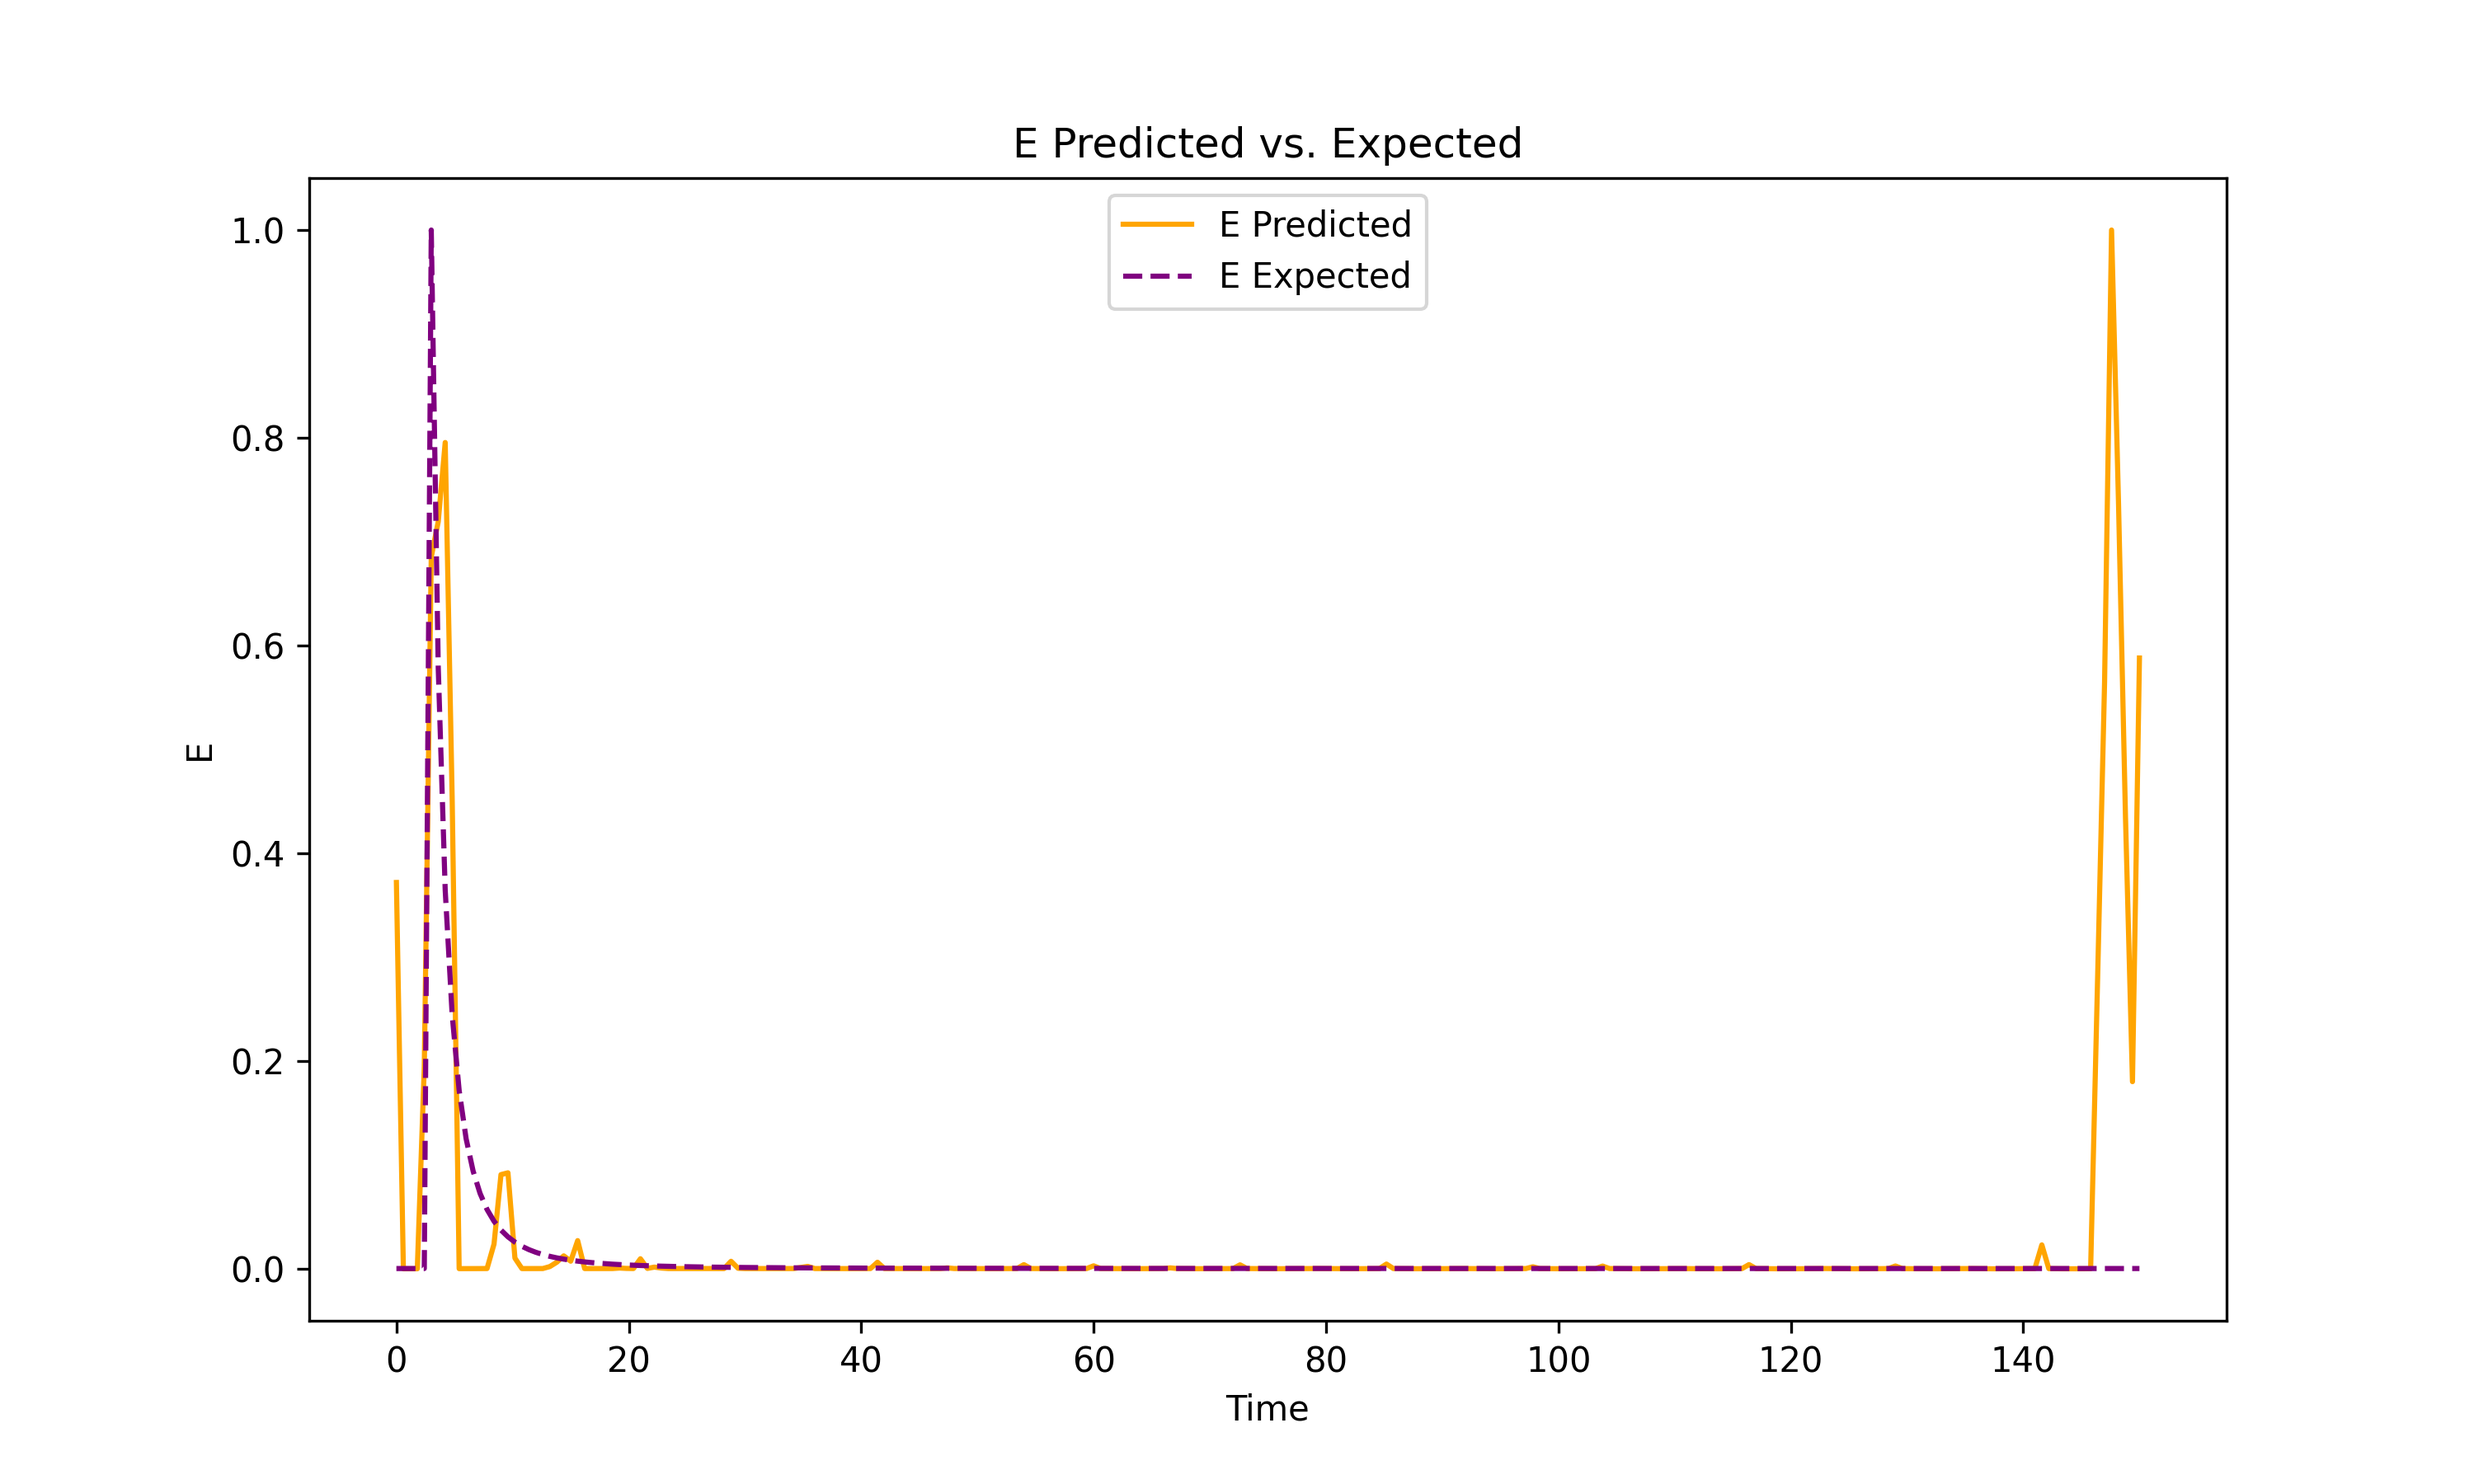
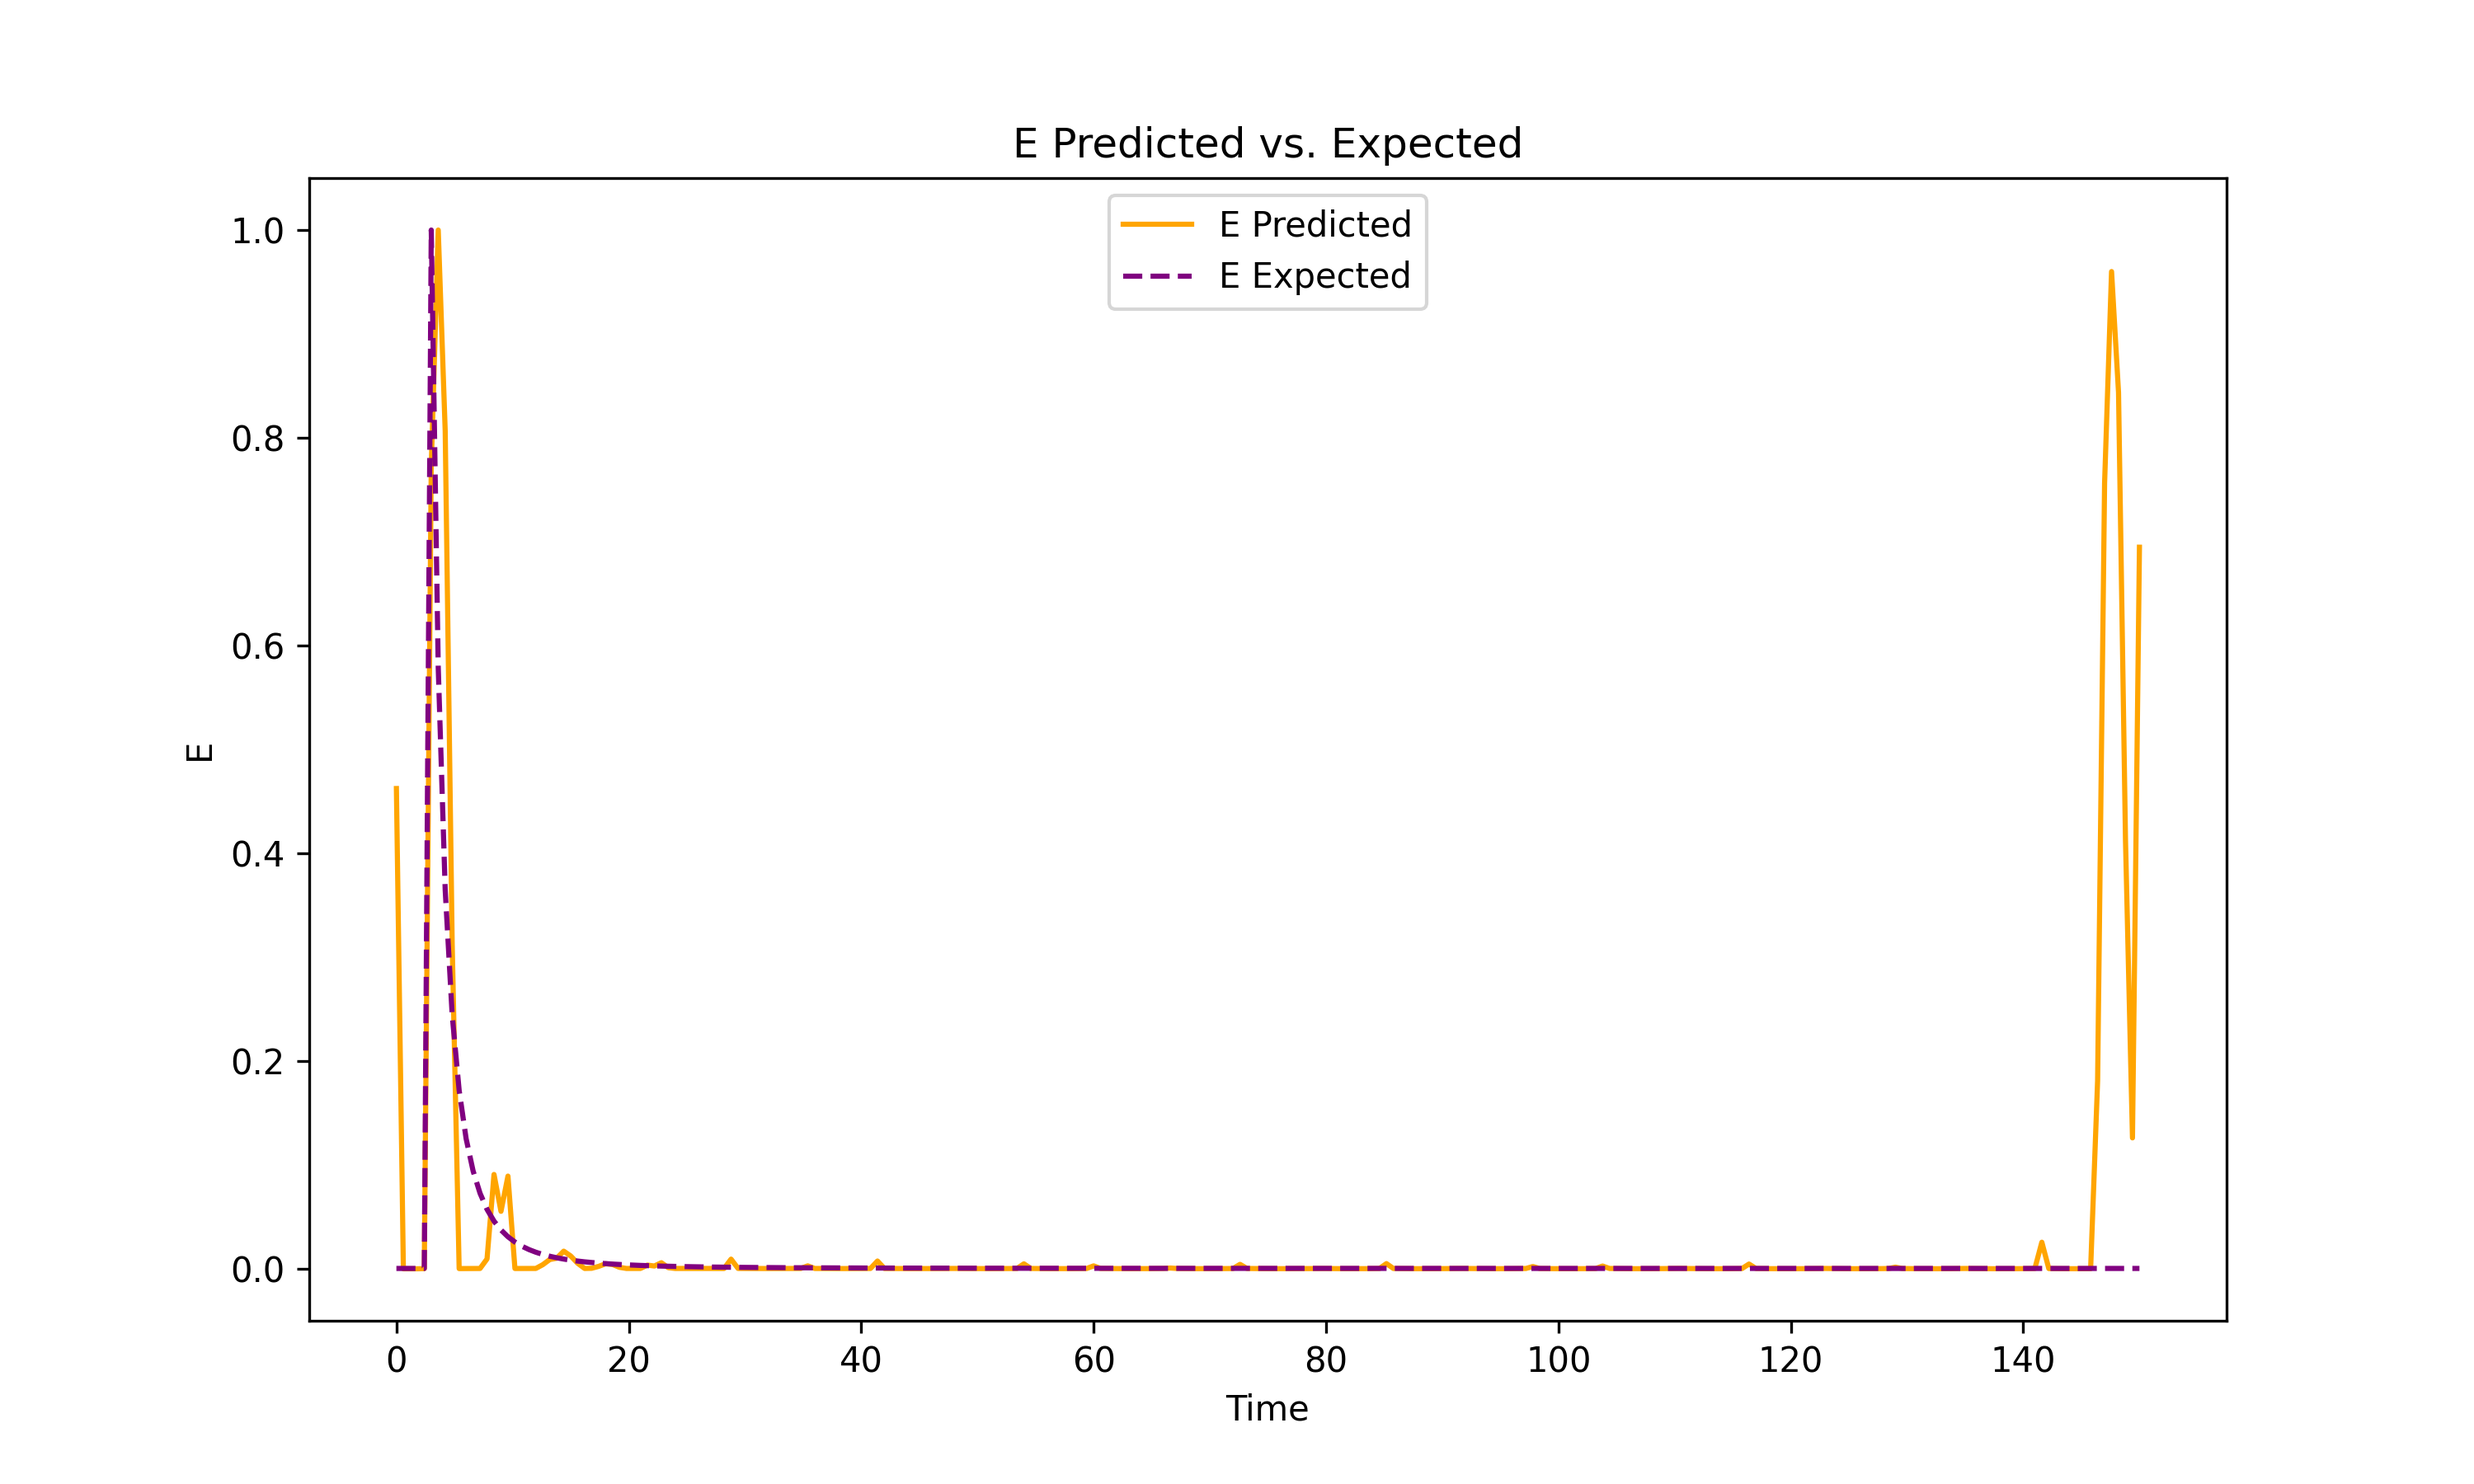
2nd layer

diff --git a/Experiments/Preliminary/2_nd_Layer_exp/0001/H_085/Convolution_script_exp_085.py b/Experiments/Preliminary/2_nd_Layer_exp/0001/H_085/Convolution_script_exp_085.py
@@ -2,14 +2,16 @@ import matplotlib.pyplot as plt
 import numpy.typing as npt
 import sys
 import os
-module_path = os.path.expanduser("lib")
-sys.path.append(module_path)
+#module_path = os.path.expanduser("lib")
+#sys.path.append(module_path)
 import torch
 from torch.utils.data import TensorDataset, DataLoader
 import lightning.pytorch as pl
 import numpy as np
 import wandb
-module_path = os.path.expanduser("~/Documents/GitHub/nRTD/lib")
+#module_path = os.path.expanduser("~/Documents/GitHub/nRTD/lib")
+#sys.path.append(module_path)
+module_path = r"D:\Tuana\nRTD\lib"
 sys.path.append(module_path)
 from nRTD.rtd_fitting_3 import RTDModule
 from nRTD.rtd_net_4 import RTDNet
@@ -120,8 +122,8 @@ t_conv_list = []
 for i, file_num in enumerate(file_numbers):
     # t_conv_path = f"/Users/tuanaoyuncu/Documents/GitHub/nRTD/Data/0001/C_001/H_135_C1/S_010_C1/TOA_MGA_20231020_010_{file_num:06d}_t_processed_2nlayer_200.npy"
     # c_out_path = f"/Users/tuanaoyuncu/Documents/GitHub/nRTD/Data/0001/C_001/H_135_C1/S_010_C1/TOA_MGA_20231020_010_{file_num:06d}_x_processed_2nlayer_200.npy"
-    t_conv_path= r"D:\Tuana\nRTD\Experiments\Data\0001\C_001\H_085_C1\S_009_C1\TOA_MGA_20231020_009_{file_num:06d}_t_processed_2nlayer_200_disc.npy"
-    c_out_path =r"D:\Tuana\nRTD\Experiments\Data\0001\C_001\H_085_C1\S_009_C1\TOA_MGA_20231020_009_{file_num:06d}_x_processed_2nlayer_200_disc.npy"
+    t_conv_path= rf"D:\Tuana\nRTD\Data\0001\C_001\H_085_C1\S_009_C1\TOA_MGA_20231020_009_{file_num:06d}_t_processed_2nlayer_200_disc.npy"
+    c_out_path =rf"D:\Tuana\nRTD\Data\0001\C_001\H_085_C1\S_009_C1\TOA_MGA_20231020_009_{file_num:06d}_x_processed_2nlayer_200_disc.npy"
     
     print(f"Processing files: {t_conv_path}, {c_out_path}")
 
@@ -189,7 +191,7 @@ wandb_logger = pl_loggers.WandbLogger(
 
 trainer = pl.Trainer(
     accelerator="auto",
-    max_epochs=2,
+    max_epochs=10000,
     logger=wandb_logger, deterministic=True
 )
 trainer.fit(model, dl)
@@ -241,9 +243,9 @@ print("c_in",c_out.shape)
 for i, file_num in enumerate(file_numbers):
     # t_conv_path_2 = f"/Users/tuanaoyuncu/Documents/GitHub/nRTD/Data/0001/C_002/H_135_C2/S_013_C2/TOA_MGA_20231020_013_{file_num:06d}_t_processed.npy"
     # c_out_path_2 = f"/Users/tuanaoyuncu/Documents/GitHub/nRTD/Data/0001/C_002/H_135_C2/S_013_C2/TOA_MGA_20231020_013_{file_num:06d}_x_processed.npy"
-    t_conv_path_2= r"D:\Tuana\nRTD\Experiments\Data\0001\C_002\H_085_C2\S_012_C2\TOA_MGA_20231020_012_{file_num:06d}_t_processed_500.npy"
-    c_out_path_2 =r"D:\Tuana\nRTD\Experiments\Data\0001\C_002\H_085_C2\S_012_C2\TOA_MGA_20231020_012_{file_num:06d}_x_processed_500.npy"
-    
+    t_conv_path_2= rf"D:\Tuana\nRTD\Data\0001\C_002\H_085_C2\S_012_C2\TOA_MGA_20231020_012_{file_num:06d}_t_processed_500.npy"
+    c_out_path_2 =rf"D:\Tuana\nRTD\Data\0001\C_002\H_085_C2\S_012_C2\TOA_MGA_20231020_012_{file_num:06d}_x_processed_500.npy"
+
     print(f"Processing files: {t_conv_path_2}, {c_out_path_2}")
 
     t_conv_2 = (
@@ -277,7 +279,7 @@ dl_2 = DataLoader(ds_2, batch_size=1, shuffle=True)
 
 trainer = pl.Trainer(
     accelerator="auto",
-    max_epochs=2,
+    max_epochs=10000,
     logger=wandb_logger,
     deterministic=True,
 )
@@ -329,102 +331,60 @@ plt.savefig(os.path.join(save_dir,f"Figure_C_002_H_135_C2{current_date}.png"), d
 plt.show()
 plt.show()
 
-# import ICIW_Plots.colors as ICIWcolors
-# from ICIW_Plots.figures import Elsevier_Sizes
-# import datetime
-# import ICIW_Plots.colors as ICIWcolors
-# from ICIW_Plots.figures import Elsevier_Sizes, ACS_Sizes
-# from ICIW_Plots import make_square_ax, cm2inch
-# from ICIW_Plots import make_rect_ax
-# plt.style.use("ICIWstyle")
-# fig = plt.figure(figsize=(Elsevier_Sizes.single_column["in"], 12 * cm2inch))
-# ax = make_rect_ax(
-#     fig,
-#     ax_width=7.3 * cm2inch,
-#     ax_height=5 * cm2inch,
-#     # left_h=0.2,  # These arguments control the spacing of the axis
-#     # bottom_v=0.2, # not supplying them wil place the axes in the middle of the figure
-#     xlabel=r"$t$ / $s$",
-#     ylabel=r"$E$ / $1$"
-# )
-# ax.plot(t_2_in.squeeze().numpy(), c_2_in.squeeze().numpy(), )
-# ax.plot(t_1_in_reshaped, c_1_in_reshaped, label=r"$x_{0(t)}$",color=ICIWcolors.CERULEAN)
-# ax.plot(t_conv_reshaped, c_conv_reshaped, label="$\hat{x}_{1(t)}$",color="purple",linestyle="--")
-# ax.plot(t_conv_reshaped, c_out_l_reshaped, label=r"$x_{1(t)}$",color=ICIWcolors.DRAB)
-# ax.plot(t_out_l_a.squeeze().numpy(), c_conv_2.detach().squeeze().numpy(), label="$\hat{x}_{2(t)}$", color="black", linestyle="--")
-# ax.plot(t_out_l_a.squeeze().numpy(), c_out_l_a.squeeze().numpy(), label=r"$x_{2(t)}$", color=ICIWcolors.FLAME)
-# ax1.set_xlim((0, 30))
-# ax1.set_ylim((-0.1, 1.1))
-# current_date = datetime.datetime.now().strftime("%Y%m%d")
-# #plt.savefig(f"2nd_Layer_Ch_and_Adl_{current_date}.png", dpi=300)
-# plt.show()
+plt.style.use("ICIWstyle")
+fig = plt.figure(figsize=(Elsevier_Sizes.single_column["in"], 12 * cm2inch))
+ax = make_rect_ax(
+    fig,
+    ax_width=7.3 * cm2inch,
+    ax_height=5 * cm2inch,
+    # left_h=0.2,  # These arguments control the spacing of the axis
+    # bottom_v=0.2, # not supplying them wil place the axes in the middle of the figure
+    xlabel=r"$t$ / $s$",
+    ylabel=r"$E$ / $1$"
+)
 
-# #### General Plotting
-# E_Adler_normalized = E_Adler / np.max(E_Adler)
-# E_learned_1 = model.net.E[0] if isinstance(model.net.E[0], np.ndarray) else model.net.E[0].numpy()
-# E_learned_2 = model_2.net.E[0] if isinstance(model_2.net.E[0], np.ndarray) else model_2.net.E[0].numpy()
+ax.plot(t_input, c_in[0, 0, :].numpy(), label=r"$x_{0(t)}$",color=ICIWcolors.CERULEAN)
+ax.plot(t_conv[j, i, :].numpy(),
+        c_out[j, i, :].numpy(), label=r"$x_{1(t)}$",color=ICIWcolors.DRAB)
+ax.plot(t_conv[0, 0, :].numpy(),
+    c_conv[0, 0, :].detach().numpy(), label="$\hat{x}_{1(t)}$",color="purple",linestyle="--")
+ax.plot( t_conv[0, 0, :].numpy(),
+    c_conv[0, 0, :].detach().numpy(), label=r"$x_{2(t)}$", color=ICIWcolors.FLAME)
+ax.plot(t_conv_2[0, i, :].numpy(),
+        c_out_2[0, i, :].numpy(), label="$\hat{x}_{2(t)}$", color="black", linestyle="--")
+
+ax.set_xlim((0, 30))
+ax.set_ylim((-0.1, 1.1))
+plt.legend()
+current_date = datetime.datetime.now().strftime("%Y%m%d")
+plt.savefig(os.path.join(save_dir, f"2nd_Layer_185_{current_date}.png"), dpi=300)
+plt.show()
+
+
+E_learned_1 = model.net.E[0] if isinstance(model.net.E[0], np.ndarray) else model.net.E[0].numpy()
+E_learned_2 = model_2.net.E[0] if isinstance(model_2.net.E[0], np.ndarray) else model_2.net.E[0].numpy()
 # E_learned_1 /= np.max(E_learned_1)
 # E_learned_2 /= np.max(E_learned_2)
 # t_adler = t_values_Adler if isinstance(t_values_Adler, np.ndarray) else t_values_Adler.numpy()
-# t_learned_1 = np.linspace(0, t_e, len(E_learned_1))
-# t_learned_2 = np.linspace(0, t_e_2, len(E_learned_2))
+t_learned_1 = np.linspace(0, t_e, len(E_learned_1))
+t_learned_2 = np.linspace(0, t_e_2, len(E_learned_2))
 
-# plt.style.use("ICIWstyle")
-# fig = plt.figure(figsize=(Elsevier_Sizes.single_column["in"], 12 * cm2inch))
-# ax = make_rect_ax(
-#     fig,
-#     ax_width=7.3 * cm2inch,
-#     ax_height=5 * cm2inch,
-#     # left_h=0.2,  # These arguments control the spacing of the axis
-#     # bottom_v=0.2, # not supplying them wil place the axes in the middle of the figure
-#     xlabel=r"$t$ / $s$",
-#     ylabel=r"$E$ / $1$"
-# )
-# ax.plot(t_learned_1, E_learned_1, label="$\hat{E}_{1(t)}$", color="purple")
-# ax.plot(t_learned_2, E_learned_2, label="$\hat{E}_{2(t)}$", color=ICIWcolors.FLAME)
-# ax1.set_xlim((0, 30))
-# ax1.set_ylim((-0.1, 1.1))
-# plt.show()
-
-# plt.figure(figsize=(10, 6))
-# plt.plot(t_learned_1, E_learned_1, label="$E_1$", color="purple")
-# plt.plot(t_learned_2, E_learned_2, label="$E_2$", color="red")
-# # plt.plot(t_l, E_laminar, label="E Laminar Layer 1", color="blue")
-# #plt.plot(t_l_a, E_laminar_a_normalized, label="E Laminar Layer 2", color="green")
-# # plt.plot(t_adler, E_Adler_normalized, label="E Adler", color="orange")
-# print("t_learned_1",t_learned_1.shape)
-# print("t_learned_2",t_learned_2.shape)
-# print("E_learned_1", E_learned_1.shape)
-# print("E_learned_2", E_learned_2.shape)
-# # Set plot labels and legend
-# plt.xlabel("Time")
-# plt.ylabel("E")
-# plt.xlim((0, 20))
-# plt.ylim((0, 1.1))
-# plt.legend()
-# plt.show()
-#Plotting the test/loss
-y_1 = [1.11e-7, 9.077e-6]
-x_1 = [50, 200]
-y_2 = [4.64e-7, 1.23e-5]
-x_2 = [50, 200]
-plt.figure(figsize=(10, 6))
-plt.scatter(x_1, y_1, color="black", label="Case 1")
-plt.scatter(x_2, y_2, color="red", label="Case 2")
-plt.xlabel('Number of Discretization')
-plt.ylabel('Test/Loss')
+plt.style.use("ICIWstyle")
+fig = plt.figure(figsize=(Elsevier_Sizes.single_column["in"], 12 * cm2inch))
+ax = make_rect_ax(
+     fig,
+     ax_width=7.3 * cm2inch,
+     ax_height=5 * cm2inch,
+      left_h=0.2,  # These arguments control the spacing of the axis
+      bottom_v=0.2, # not supplying them wil place the axes in the middle of the figure
+     xlabel=r"$t$ / $s$",
+     ylabel=r"$E$ / $1$"
+ )
+ax.plot(t_learned_1, E_learned_1, label="$\hat{E}_{1(t)}$", color="purple")
+ax.plot(t_learned_2, E_learned_2, label="$\hat{E}_{2(t)}$", color=ICIWcolors.FLAME)
+ax.set_xlim((0, 20))
+ax.set_ylim((-0.1, 1.1))
 plt.legend()
+current_date = datetime.datetime.now().strftime("%Y%m%d")
+plt.savefig(os.path.join(save_dir, f"E_085_{current_date}.png"), dpi=300)
 plt.show()
-
-# fig, ax1 = plt.subplots(figsize=(10, 6))
-# ax1.plot(t_1_in_reshaped, c_1_in_reshaped, label=" $c_{in}$", color="blue")
-# ax1.plot(t_conv_reshaped, c_conv_reshaped, label="$c_{p,1}$", color="black", linestyle="--")
-# ax1.plot(t_conv_reshaped, c_out_l_reshaped, label="$c_{o,1}$", color="yellow")
-# ax1.plot(t_conv_values, c_conv_2_values, label="$c_{p,2}$", color="red", linestyle="--")
-# ax1.plot(t_conv_values, c_out_values, label="$c_{o,2}$", color="orange")
-# ax1.set_xlim((0, 30))
-# ax1.set_ylim((0, 1.1))
-# ax1.set_ylabel('Concentration')
-# ax1.set_xlabel('Time')
-# ax1.legend()
-# plt.show()
